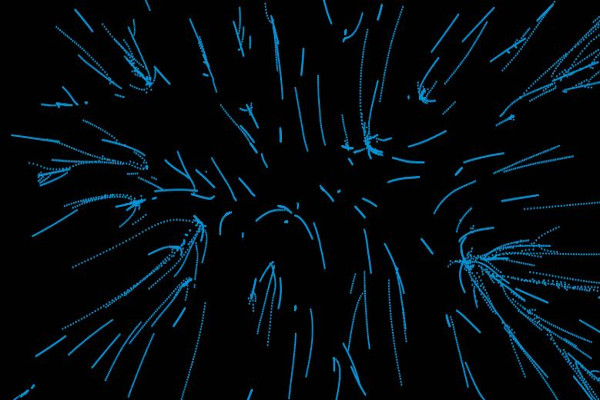
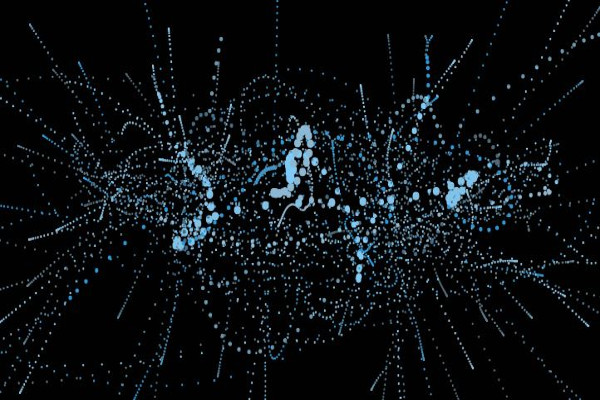
Diff colors drwart02 + start drawart03

diff --git a/public/scripts/drawart03.js b/public/scripts/drawart03.js
@@ -1,0 +1,153 @@
+//Constants ---------------------------------------------------------------
+const FILE_NAME = "drawart03.txt";
+let loopInterval = null;
+let loopCount = 0;
+let params = {
+    file: FILE_NAME,
+    simulationSpeed: 2000,
+    centralGravity: 10,
+    asteroidSpeed: 10,
+}
+let planet = {
+    x: 0,
+    y: 0,
+    dx: 0,
+    dy: 0,
+    rad: 0,
+    col: null,
+    mass: 0,
+    init: function (x, y, dx, dy, rad, col, mass) {
+      this.x = x;
+      this.y = y;
+      this.dx = dx;
+      this.dy = dy;
+      this.rad = rad;
+      this.col = col;
+      this.mass = mass;
+    },
+};
+let asteroids = [];
+
+//Screen interaction ---------------------------------------------------------------
+let artCanvas = document.getElementById('art-canvas');
+artCanvas.setAttribute ('width', screen.availWidth/3);
+artCanvas.setAttribute ('height', screen.availHeight/3); 
+artCanvas.style.backgroundColor= '#010101';
+let ctx = artCanvas.getContext('2d');
+document.body.onload = function () {
+  readParams ();
+};
+document.getElementById("start-button").onclick = function () {
+    startLoop();
+};
+document.getElementById("stop-button").onclick = function () {
+    stopLoop();
+};
+document.getElementById("clear-button").onclick = function () {
+    clearCanvas();
+};
+document.getElementById("full-button").onclick = function () {
+    artCanvas.requestFullscreen();
+};
+document.getElementById("save-button").onclick = function () {
+  saveParams ();
+};
+document.getElementById("read-button").onclick = function () {
+readParams ();
+};
+document.getElementById("simulation-speed").onchange = function () {
+    params.speed = parseInt(document.getElementById('simulation-speed').value);
+    console.log ("simulation-speed "+params.simulationSpeed);
+    clearCanvas();
+};
+document.getElementById("central-gravity").onchange = function () {
+    params.speed = parseInt(document.getElementById('central-gravity').value);
+    console.log ("central-gravity "+params.centralGravity);
+    clearCanvas();
+};
+document.getElementById("asteroid-speed").onchange = function () {
+    params.speed = parseInt(document.getElementById('asteroid-speed').value);
+    console.log ("asteroid-speed "+params.asteroidSpeed);
+    clearCanvas();
+};
+
+function startLoop () {
+    console.log("startLoop");
+      
+    if (loopInterval == null) {
+      loopInterval = setInterval(drawToCanvas, params.simulationSpeed);  
+    }
+  
+  }
+  
+function stopLoop () {
+    console.log("stopLoop");
+    clearInterval(loopInterval);
+    loopInterval = null;
+}
+  
+function saveParams () {
+  let dynRequest = new XMLHttpRequest();
+
+  //Receive data
+  dynRequest.onreadystatechange = function () {
+    if (dynRequest.readyState==4 && dynRequest.status==200) {    
+        //console.log ("Response "+dynRequest.responseText);
+    }
+  }
+
+  //console.log ("Send 2"+JSON.stringify(params));
+  dynRequest.open ('POST', '/parsave', true);
+  dynRequest.setRequestHeader("Accept", "application/json");
+  dynRequest.setRequestHeader("Content-Type", "application/json");
+  dynRequest.send(JSON.stringify(params));
+
+}
+
+function readParams () {
+  let dynRequest = new XMLHttpRequest();
+
+  //Receive data
+  dynRequest.onreadystatechange = function () {
+    if (dynRequest.readyState==4 && dynRequest.status==200) {    
+        //console.log ("Response "+dynRequest.responseText);
+        var res = JSON.parse(dynRequest.responseText);
+
+        //Init param values
+        params.centralGravity = res.centralGravity;
+        params.asteroidSpeed = res.asteroidSpeed;
+
+        //Init drop down display
+        document.getElementById("speed").value = params.centralGravity;
+        document.getElementById("num-parts").value = res.asteroidSpeed;
+    }
+  }
+
+  dynRequest.open ('GET', '/parread?file='+FILE_NAME, true);
+  dynRequest.send();
+}
+
+//Drawing ---------------------------------------------------------------
+function clearCanvas () {
+    console.log("Clear canvas");
+    ctx.clearRect(0, 0, artCanvas.width, artCanvas.height);
+
+    clearInterval(loopInterval);
+    loopInterval = null;
+  }
+
+function drawToCanvas () {
+  //console.log ("Draw to canvas");
+  ctx.clearRect(0, 0, artCanvas.width, artCanvas.height);
+  
+  loopCount++;
+}
+
+function drawCentral () {
+    ctx.beginPath();
+    ctx.arc(parts[i].x, parts[i].y, parts[i].rad, 0, Math.PI*2);
+    ctx.fillStyle = parts[i].col;
+    ctx.fill();
+    ctx.closePath();  
+}
+

diff --git a/public/scripts/drawart02.js b/public/scripts/drawart02.js
@@ -18,17 +18,30 @@ let part = {
     rad: 0,
     col: null,
     mass: 0,
-    init: function (x, y, dx, dy, rad, col, mass) {
+    init: function (x, y, dx, dy, rad, mass) {
       this.x = x;
       this.y = y;
       this.dx = dx;
       this.dy = dy;
       this.rad = rad;
-      this.col = col;
+      this.col = partColors[Math.floor(Math.random() * partColors.length)];
       this.mass = mass;
     },
   };
   let parts = [];
+  let partColors = [
+    "#4b7f9d",
+    "#6898b4",
+    "#8cb8d3",
+    "#4292c2",
+    "#289bdf",
+    "#7fcaf6",
+    "#81c2e8",
+    "#5f7f92",
+    "#426b84",
+    "#506775"
+    ];
+    
   
 
 //Screen interaction ---------------------------------------------------------------
@@ -97,7 +110,6 @@ function startLoop () {
             0,
             0,
             params.partSize,
-            "#0095DD",
             params.partSize*3,
             )
             if (parts[i].x<parts[i].rad) {parts[i].x += parts[i].rad;}
@@ -215,11 +227,11 @@ function calculateVelocities () {
       //Calulate distance
       let distance = Math.sqrt((obj2.x-obj1.x)*(obj2.x-obj1.x) + (obj2.y-obj1.y)*(obj2.y-obj1.y));
       if (distance<=obj1.rad) {
-        //parts crashed - create one bigger part
+        //parts crashed - create one bigger part velocity decreases because of deformation (*0.5)
         obj1.rad += obj2.rad;
         obj1.mass += obj2.mass;
-        obj1.dx += obj2.mass*(obj1.x-obj2.x);
-        obj1.dy += obj2.mass*(obj1.y-obj2.y);
+        obj1.dx = (obj1.dx+obj2.mass*(obj1.x-obj2.x))*0.5;
+        obj1.dy = (obj1.dy+obj2.mass*(obj1.y-obj2.y))*0.5;
 
         //Remove the other
         parts.splice(j,1);
@@ -227,24 +239,13 @@ function calculateVelocities () {
       else {
         let moveFactor = obj1.mass * obj2.mass / Math.pow(distance, 2);
         //console.log("Distance "+distance+" Factor "+moveFactor);
+        
+        //Spped change considering object mass
         obj1.dx += obj1.mass*(obj2.x-obj1.x) / Math.pow(distance, 2);
         obj1.dy += obj1.mass*(obj2.y-obj1.y) / Math.pow(distance, 2);  
 
         obj2.dx += obj2.mass*(obj1.x-obj2.x) / Math.pow(distance, 2);
         obj2.dy += obj2.mass*(obj1.y-obj2.y) / Math.pow(distance, 2);  
-
-
-        //New part position
-        /*
-        if(obj1.rad>obj2.rad) {
-          obj2.dx += moveFactor*(obj1.x-obj2.x);
-          obj2.dy += moveFactor*(obj1.y-obj2.y);  
-        } else {
-          obj1.dx += moveFactor*(obj2.x-obj1.x);
-          obj1.dy += moveFactor*(obj2.y-obj1.y);  
-        }*/
-        //console.log ("after move obj1 x "+obj1.x+" y "+obj1.y);
-
       }
 
     }

diff --git a/index.js b/index.js
@@ -57,6 +57,11 @@ app.get ('/drawart02', function (req, res) {
   res.render ('pages/drawart02');
 }); 
 
+app.get ('/drawart03', function (req, res) {
+  console.log ("drawart03");
+  res.render ('pages/drawart03');
+}); 
+
 //Catch all requests which have no routing. identify IP
 app.get('*', function(req, res, next) {
     let err = new Error(`${req.ip} tried to reach ${req.originalUrl}`); // Tells us which IP tried to reach a particular URL
